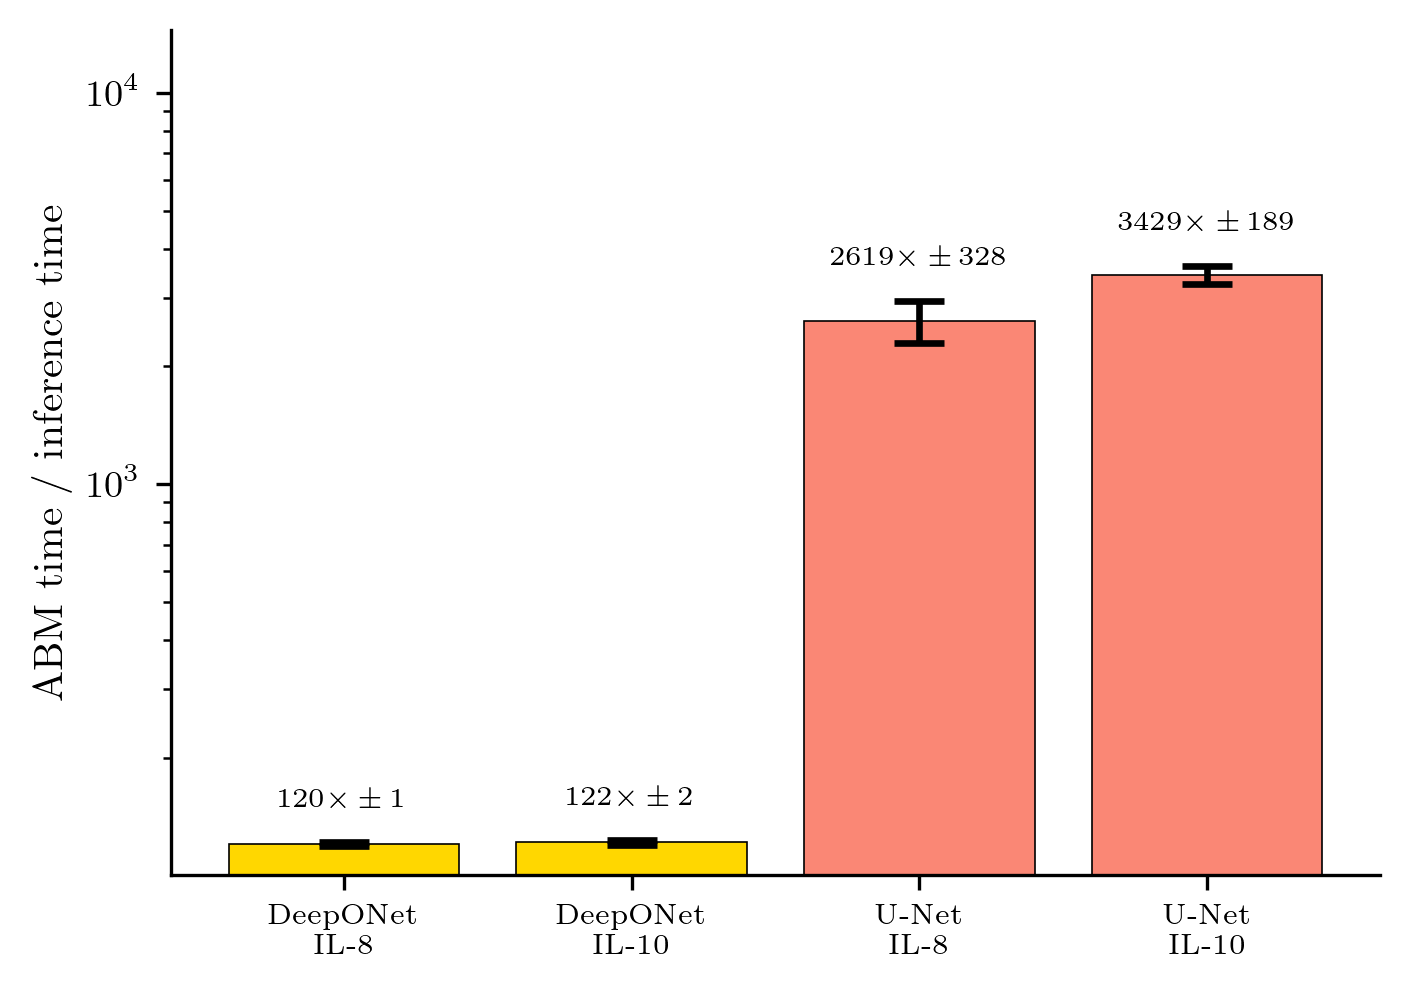
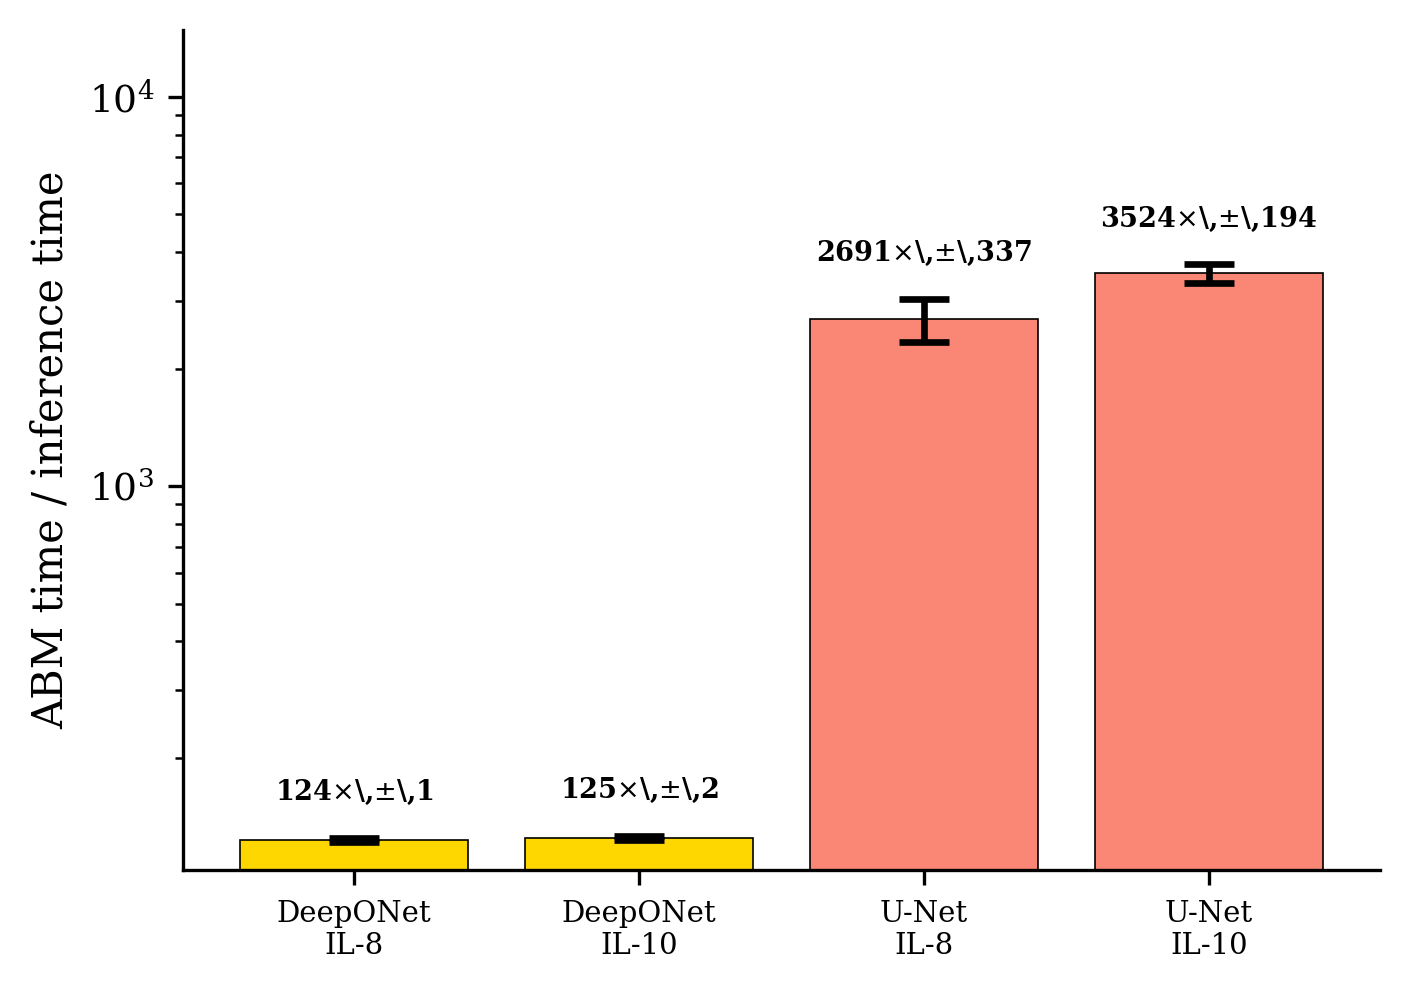
ABM runtime of the new benchmark run (5121 s); cost numbers and speed-up figure

Changed region(s): [[0.0, 0.0303, 0.9986, 0.9697], [0.5617, 0.2424, 0.7177, 0.2727]]

diff --git a/scripts/forward_numbers.py b/scripts/forward_numbers.py
@@ -18,7 +18,7 @@ PLANES = [("xy_midplane_z", "xy"), ("xz_midplane_y", "xz"), ("yz_midplane_x", "y
 
 ap = argparse.ArgumentParser()
 ap.add_argument("--models", default="models"); ap.add_argument("--run", default="run_0062"); ap.add_argument("--grid", type=int, default=50)
-ap.add_argument("--abm-runtime", type=float, default=4984.06, help="wall-clock of one ABM trajectory (s)")
+ap.add_argument("--abm-runtime", type=float, default=5121.0, help="wall-clock of one ABM trajectory (s)")
 a = ap.parse_args()
 M = Path(a.models)
 res = {m: {c: {s: json.load(open(M / d / f"res_{c}_{a.run}_{a.grid}_{s}.json")) for s in SEEDS} for c, _ in CYTS} for m, d in MODELS}

diff --git a/scripts/figures.py b/scripts/figures.py
@@ -72,8 +72,8 @@ ERR_CMAP   = "inferno"
 EBAR_CAPSIZE = 6
 EBAR_KW = dict(ecolor="black", elinewidth=1.6, capthick=1.6)
 
-# ABM reference wall-clock for one 100h trajectory at 50^3 (run_0062 canary).
-ABM_RUNTIME_S = {50: 4984.06}
+# wall-clock of the benchmark ABM run (run_0062, 50^3, 100 h; Slurm elapsed 01:25:21)
+ABM_RUNTIME_S = {50: 5121.0}
 
 # paths relative to the repository root
 MODELS_ROOT = Path("./models")

diff --git a/README.md b/README.md
@@ -15,7 +15,7 @@ All ABM results come from one 100-point Latin-hypercube design (`smores/manifest
 | Clipping | Scored against the full IL-8 field, networks trained on the clipped field reach R² = 0.71, the ceiling for any predictor of the clipped field (the voxels above the clip value are 1.7% of the field and carry 29% of its variance). Trained without clipping, the U-Net reaches 0.95 and DeepONet 0.52-0.85, still below persistence (`models/clip_comparison/`) |
 | Autoregressive rollouts | From t = 82 h, with the network's own channel fed back, no network is stable across seeds: on IL-8 one DeepONet seed collapses (late R² -0.01) while the U-Net holds 0.93-0.96; on IL-10 one DeepONet seed beats persistence and two collapse (`models/rollout_3d/`) |
 | Mid-plane accuracy | On IL-10 the xy plane is the weakest for DeepONet (0.82 against 0.90-0.91) and the yz plane for the U-Net (0.69 against 0.78-0.94) |
-| Cost of a field read-out | One ABM trajectory (4984 s) takes 2600-3400 times longer than a U-Net read-out and 120 times longer than a DeepONet read-out. The surrogates need the ABM's cell masks and the two previous frames, so this is the cost of reading out a field along a simulated trajectory, not a saved simulation |
+| Cost of a field read-out | One ABM trajectory (5121 s) takes 2700-3500 times longer than a U-Net read-out and 125 times longer than a DeepONet read-out. The surrogates need the ABM's cell masks and the two previous frames, so this is the cost of reading out a field along a simulated trajectory, not a saved simulation |
 | Sensitivity | Per cytokine, each secretion rate dominates its own signal (S_T 0.42-0.56) and `keil8` and `init_ec` each get 0.507 on IL-8. Over all 24 observables `sigmoidb` leads (S_T = 0.575) because it acts on five cytokines |
 | Recovery (SMoRe ParS, leave-one-out, 10 parameters) | `sigmoidb` R² = 0.88; `km1il6`, `km2tgf`, `km2il10` 0.69-0.74; `init_ec` and `keil8` only through their product (region width 0.058 along their sum, 0.971 along their difference); `lnril8` and the other initial counts not recovered. Unchanged on nested subsamples of 60-90 sweep points (`results_v3/tables/tab_learning_curve.tex`) |
 | Sensitivity ≠ identifiability | `init_ec` and `keil8` receive identical Sobol indices, yet the data constrain only their product: endothelial cells are frozen, so volume-averaged IL-8 is linear in sources × secretion rate (1 - R² = 1.9e-9; log-linear exponents 1.0000 and 1.0001). The two parameters are uncorrelated in the design (r = -0.03) |
